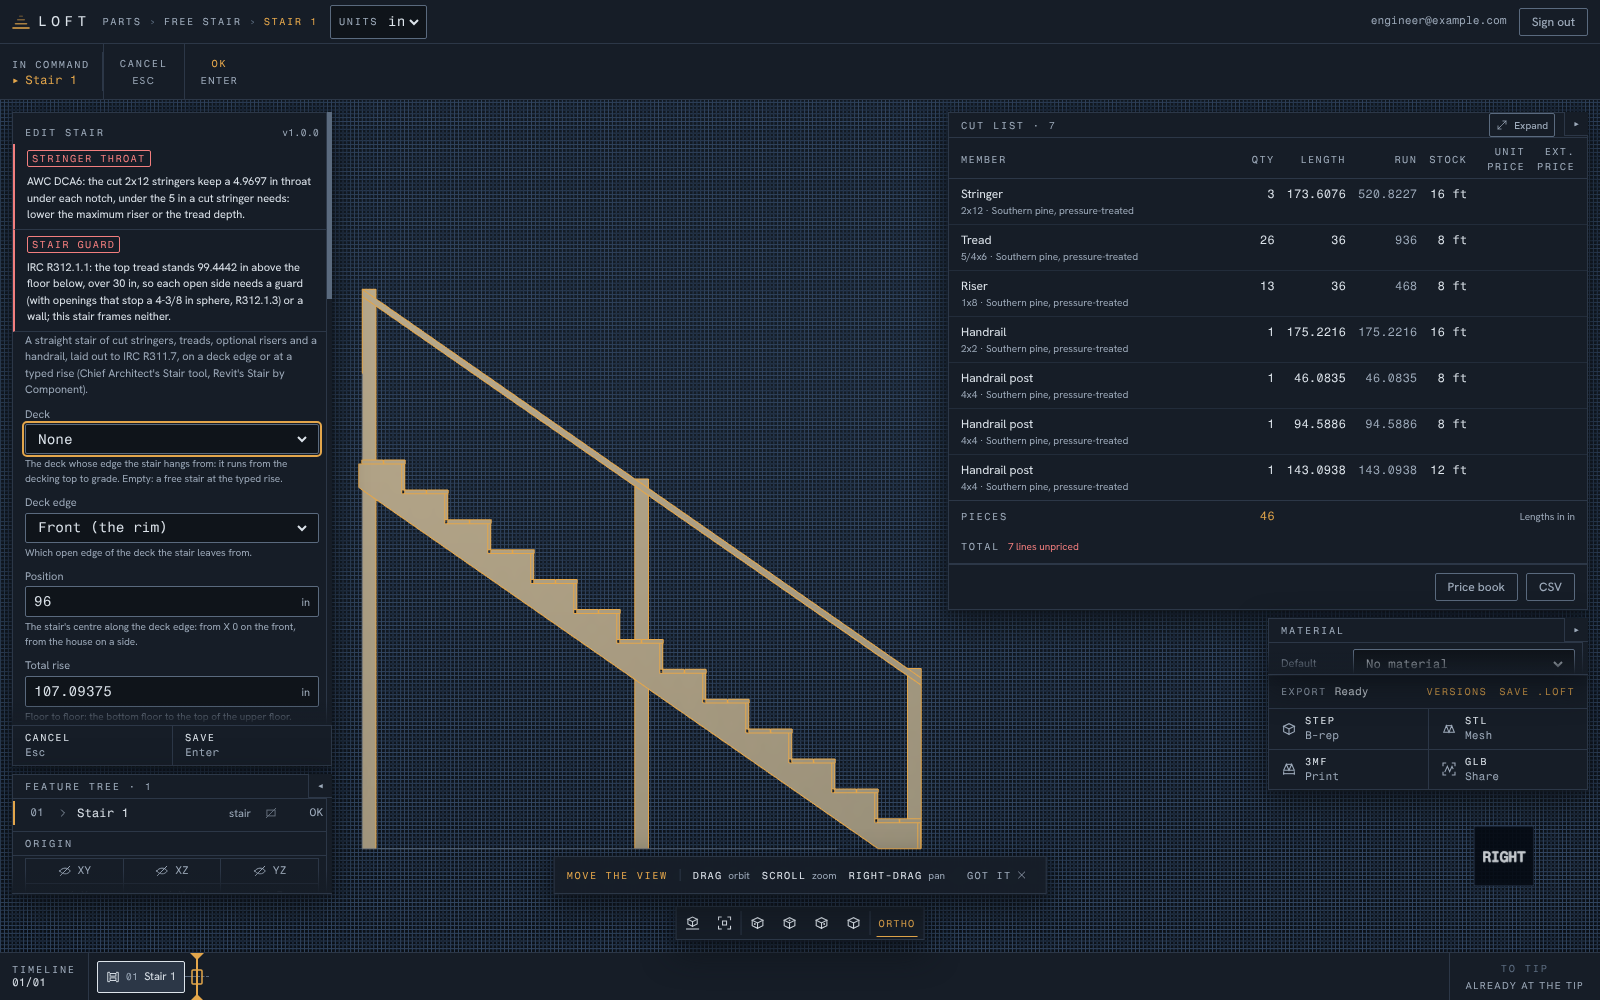
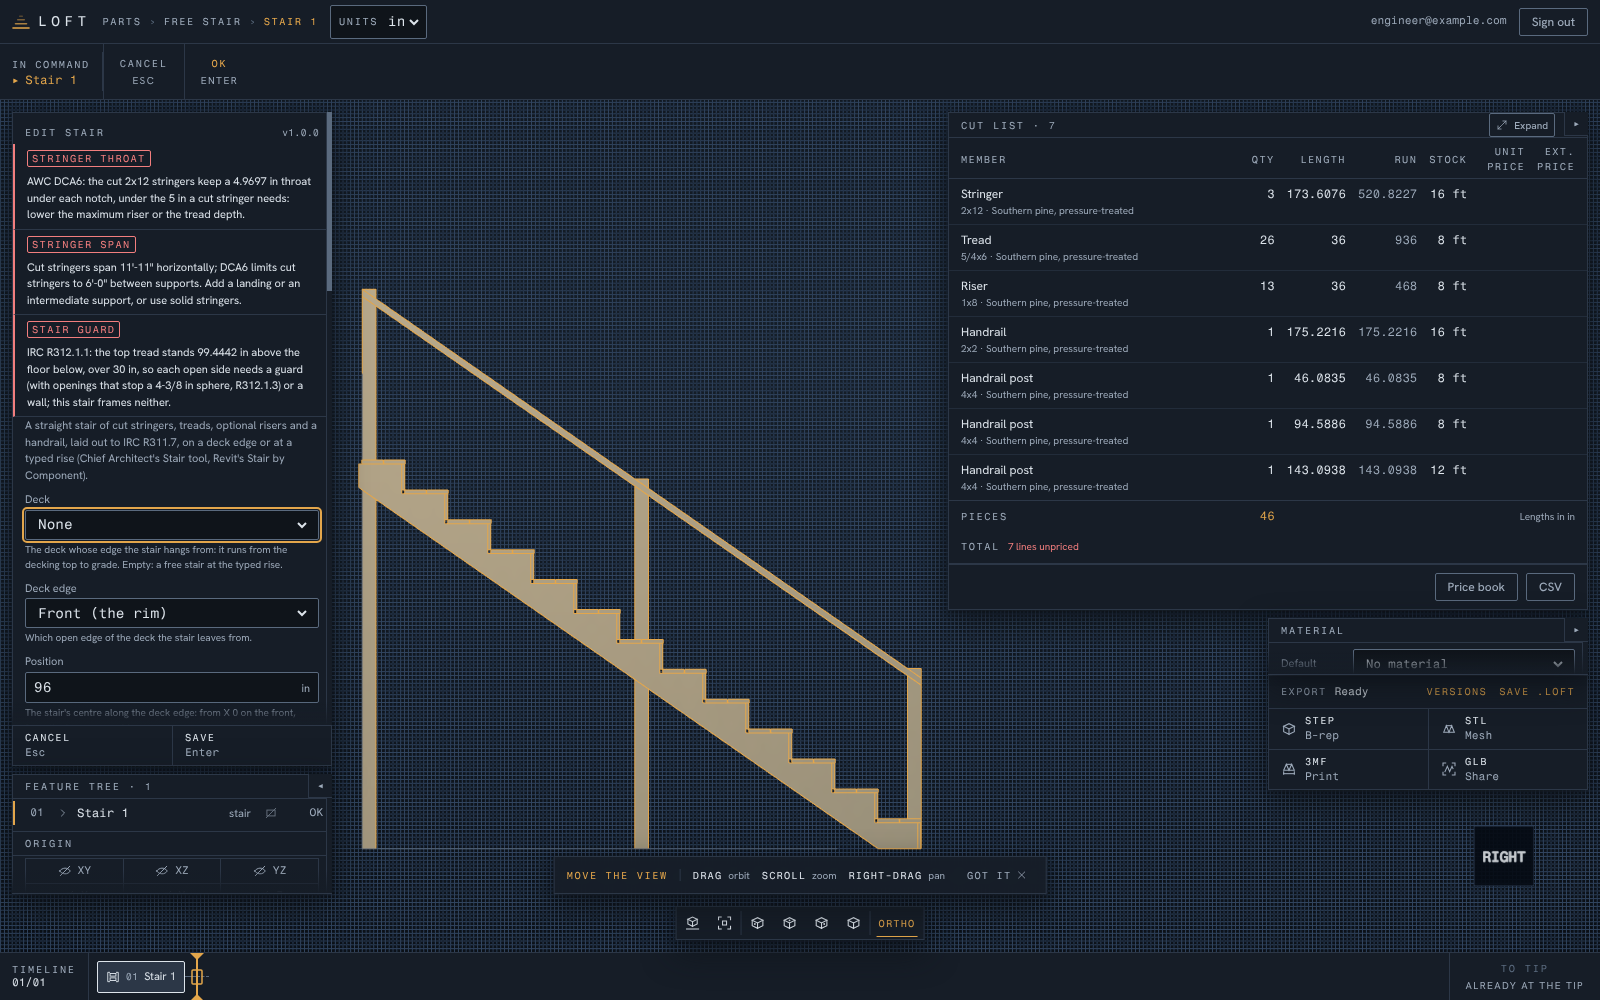
feat(plugins): warn when a stair's cut stringers span over 6'-0" (STAIRS)
stair_stringer_span: AWC DCA6 limits cut stringers to 6'-0" horizontally
between supports (DCA6's stair detail; Fine Homebuilding on the 2013
southern-pine values, down from 7 ft; InterNACHI's inspector guidance).
The span runs from the stringers' head to the bottom riser line: B1's
35 in and the 36 in deck's 46 in pass; the free 107 in stair's 143 in
(11'-11") warns and asks for a landing, an intermediate support or solid
stringers. Cited in RESEARCH 23; STAIRS-STRINGER-SPAN leaves the notes.

Claude-Session: https://claude.ai/code/session_0187m1Up5oMSqhzNuRp9tgBJ

Changed region(s): [[0.0, 0.248, 0.2188, 0.713]]

diff --git a/packages/ts-client/src/gateway/schema.ts b/packages/ts-client/src/gateway/schema.ts
@@ -7578,7 +7578,7 @@ export interface components {
             plugin_update?: components["schemas"]["PluginUpdate"] | null;
             /**
              * Plugin Warnings
-             * @description Wrong geometry the feature's pinned plugin release builds (`roof_through_sheathing`), each with the release that fixes it, or a warning on its inputs (`crawl_height_low`, `ceiling_joists_omitted`, `stair_throat_thin`, `stair_guard_required`, `stair_deck_guard`). Omitted when there are none.
+             * @description Wrong geometry the feature's pinned plugin release builds (`roof_through_sheathing`), each with the release that fixes it, or a warning on its inputs (`crawl_height_low`, `ceiling_joists_omitted`, `stair_throat_thin`, `stair_stringer_span`, `stair_guard_required`, `stair_deck_guard`). Omitted when there are none.
              */
             plugin_warnings?: components["schemas"]["PluginWarning"][] | null;
             /**
@@ -11739,10 +11739,10 @@ export interface components {
         PluginWarning: {
             /**
              * Code
-             * @description 'roof_through_sheathing': the roof's tails pass through wall sheathing, so the two share volume; 'crawl_height_low': a foundation's crawl height is under the 18 in of IRC R317.1; 'ceiling_joists_omitted': a gable's chosen ceiling joist would pass its ridge board, so the roof is built without them; 'stair_throat_thin': a stair's cut stringers keep under AWC DCA6's 5 in throat; 'stair_guard_required': a stair's top tread is over 30 in up and its open sides have no guard (IRC R312.1.1); 'stair_deck_guard': the deck's guard runs across the stair's head
+             * @description 'roof_through_sheathing': the roof's tails pass through wall sheathing, so the two share volume; 'crawl_height_low': a foundation's crawl height is under the 18 in of IRC R317.1; 'ceiling_joists_omitted': a gable's chosen ceiling joist would pass its ridge board, so the roof is built without them; 'stair_throat_thin': a stair's cut stringers keep under AWC DCA6's 5 in throat; 'stair_stringer_span': a stair's cut stringers span more than DCA6's 6'-0" horizontally between supports; 'stair_guard_required': a stair's top tread is over 30 in up and its open sides have no guard (IRC R312.1.1); 'stair_deck_guard': the deck's guard runs across the stair's head
              * @enum {string}
              */
-            code: "roof_through_sheathing" | "crawl_height_low" | "ceiling_joists_omitted" | "stair_throat_thin" | "stair_guard_required" | "stair_deck_guard";
+            code: "roof_through_sheathing" | "crawl_height_low" | "ceiling_joists_omitted" | "stair_throat_thin" | "stair_stringer_span" | "stair_guard_required" | "stair_deck_guard";
             /**
              * Message
              * @description Names the problem and what fixes it

diff --git a/packages/ts-client/src/documents/schema.ts b/packages/ts-client/src/documents/schema.ts
@@ -5026,7 +5026,7 @@ export interface components {
             plugin_update?: components["schemas"]["PluginUpdate"] | null;
             /**
              * Plugin Warnings
-             * @description Wrong geometry the feature's pinned plugin release builds (`roof_through_sheathing`), each with the release that fixes it, or a warning on its inputs (`crawl_height_low`, `ceiling_joists_omitted`, `stair_throat_thin`, `stair_guard_required`, `stair_deck_guard`). Omitted when there are none.
+             * @description Wrong geometry the feature's pinned plugin release builds (`roof_through_sheathing`), each with the release that fixes it, or a warning on its inputs (`crawl_height_low`, `ceiling_joists_omitted`, `stair_throat_thin`, `stair_stringer_span`, `stair_guard_required`, `stair_deck_guard`). Omitted when there are none.
              */
             plugin_warnings?: components["schemas"]["PluginWarning"][] | null;
             /**
@@ -8711,10 +8711,10 @@ export interface components {
         PluginWarning: {
             /**
              * Code
-             * @description 'roof_through_sheathing': the roof's tails pass through wall sheathing, so the two share volume; 'crawl_height_low': a foundation's crawl height is under the 18 in of IRC R317.1; 'ceiling_joists_omitted': a gable's chosen ceiling joist would pass its ridge board, so the roof is built without them; 'stair_throat_thin': a stair's cut stringers keep under AWC DCA6's 5 in throat; 'stair_guard_required': a stair's top tread is over 30 in up and its open sides have no guard (IRC R312.1.1); 'stair_deck_guard': the deck's guard runs across the stair's head
+             * @description 'roof_through_sheathing': the roof's tails pass through wall sheathing, so the two share volume; 'crawl_height_low': a foundation's crawl height is under the 18 in of IRC R317.1; 'ceiling_joists_omitted': a gable's chosen ceiling joist would pass its ridge board, so the roof is built without them; 'stair_throat_thin': a stair's cut stringers keep under AWC DCA6's 5 in throat; 'stair_stringer_span': a stair's cut stringers span more than DCA6's 6'-0" horizontally between supports; 'stair_guard_required': a stair's top tread is over 30 in up and its open sides have no guard (IRC R312.1.1); 'stair_deck_guard': the deck's guard runs across the stair's head
              * @enum {string}
              */
-            code: "roof_through_sheathing" | "crawl_height_low" | "ceiling_joists_omitted" | "stair_throat_thin" | "stair_guard_required" | "stair_deck_guard";
+            code: "roof_through_sheathing" | "crawl_height_low" | "ceiling_joists_omitted" | "stair_throat_thin" | "stair_stringer_span" | "stair_guard_required" | "stair_deck_guard";
             /**
              * Message
              * @description Names the problem and what fixes it

diff --git a/apps/web/e2e/stairs.spec.ts b/apps/web/e2e/stairs.spec.ts
@@ -201,10 +201,12 @@ test.describe("Stairs — B1's stair and a free stair", () => {
     });
     await page.getByTestId("feature-select-0").click();
     const warnings = page.getByTestId("plugin-warning");
-    await expect(warnings).toHaveCount(2);
+    await expect(warnings).toHaveCount(3);
     await expect(warnings.nth(0)).toContainText("Stringer throat");
     await expect(warnings.nth(0)).toContainText("4.9697 in");
-    await expect(warnings.nth(1)).toContainText("R312.1.1");
+    await expect(warnings.nth(1)).toContainText("Stringer span");
+    await expect(warnings.nth(1)).toContainText(`11'-11"`);
+    await expect(warnings.nth(2)).toContainText("R312.1.1");
     await page.mouse.move(800, 990);
     await page.screenshot({
       path: `${SCREENSHOT_DIR}/stairs-free-warning.png`,

diff --git a/apps/web/src/components/PluginFeatureEditor.tsx b/apps/web/src/components/PluginFeatureEditor.tsx
@@ -134,6 +134,7 @@ const WARNING_LABELS: Record<string, string> = {
   crawl_height_low: "Crawl height",
   ceiling_joists_omitted: "Ceiling joists",
   stair_throat_thin: "Stringer throat",
+  stair_stringer_span: "Stringer span",
   stair_guard_required: "Stair guard",
   stair_deck_guard: "Deck guard",
 };

diff --git a/packages/loft-wire/src/loft_wire/plugin_warning.py b/packages/loft-wire/src/loft_wire/plugin_warning.py
@@ -21,7 +21,9 @@ pass the ridge board's underside): the roof builds without them, as Chief
 warns rather than blocks, and the message says what to pick.
 
 ``loft.stair`` (STAIRS) carries advice on a layout that builds: a cut
-stringer's throat under AWC DCA6's 5 in (``stair_throat_thin``), open sides
+stringer's throat under AWC DCA6's 5 in (``stair_throat_thin``), a cut
+stringer spanning more than DCA6's 6'-0" horizontally between supports
+(``stair_stringer_span``), open sides
 more than 30 in up that IRC R312.1.1 guards (``stair_guard_required``), and
 a deck whose guard crosses the stair's head (``stair_deck_guard``: the
 stair never changes the deck). A layout that breaks IRC R311.7 is refused
@@ -45,6 +47,8 @@ CRAWL_HEIGHT_LOW: Final = "crawl_height_low"
 CEILING_JOISTS_OMITTED: Final = "ceiling_joists_omitted"
 #: STAIRS: a ``loft.stair``'s cut stringers keep under 5 in of throat (DCA6).
 STAIR_THROAT_THIN: Final = "stair_throat_thin"
+#: STAIRS: a stair's cut stringers span over DCA6's 6'-0" between supports.
+STAIR_STRINGER_SPAN: Final = "stair_stringer_span"
 #: STAIRS: a stair's top tread over 30 in up, its open sides unguarded.
 STAIR_GUARD_REQUIRED: Final = "stair_guard_required"
 #: STAIRS: the picked deck's guard runs across the stair's head.
@@ -59,6 +63,7 @@ class PluginWarning(BaseModel):
         "crawl_height_low",
         "ceiling_joists_omitted",
         "stair_throat_thin",
+        "stair_stringer_span",
         "stair_guard_required",
         "stair_deck_guard",
     ] = Field(
@@ -68,7 +73,9 @@ class PluginWarning(BaseModel):
         "'ceiling_joists_omitted': a gable's chosen ceiling joist would pass "
         "its ridge board, so the roof is built without them; "
         "'stair_throat_thin': a stair's cut stringers keep under AWC DCA6's "
-        "5 in throat; 'stair_guard_required': a stair's top tread is over "
+        "5 in throat; 'stair_stringer_span': a stair's cut stringers span "
+        "more than DCA6's 6'-0\" horizontally between supports; "
+        "'stair_guard_required': a stair's top tread is over "
         "30 in up and its open sides have no guard (IRC R312.1.1); "
         "'stair_deck_guard': the deck's guard runs across the stair's head"
     )
@@ -100,7 +107,8 @@ PLUGIN_WARNINGS_FIELD: Any = Field(
     description="Wrong geometry the feature's pinned plugin release builds "
     "(`roof_through_sheathing`), each with the release that fixes it, or a "
     "warning on its inputs (`crawl_height_low`, `ceiling_joists_omitted`, "
-    "`stair_throat_thin`, `stair_guard_required`, `stair_deck_guard`). "
+    "`stair_throat_thin`, `stair_stringer_span`, `stair_guard_required`, "
+    "`stair_deck_guard`). "
     "Omitted when there are none.",
 )
 
@@ -112,6 +120,7 @@ __all__ = [
     "ROOF_THROUGH_SHEATHING",
     "STAIR_DECK_GUARD",
     "STAIR_GUARD_REQUIRED",
+    "STAIR_STRINGER_SPAN",
     "STAIR_THROAT_THIN",
     "PluginWarning",
     "PluginWarnings",

diff --git a/packages/loft-plugins/src/loft_plugins/builtin/stair.py b/packages/loft-plugins/src/loft_plugins/builtin/stair.py
@@ -96,6 +96,7 @@ from loft_wire.materials import MaterialKey
 from loft_wire.plugin_warning import (
     STAIR_DECK_GUARD,
     STAIR_GUARD_REQUIRED,
+    STAIR_STRINGER_SPAN,
     STAIR_THROAT_THIN,
 )
 from loft_wire.plugins import (
@@ -134,6 +135,9 @@ OPEN_RISER_SPHERE: Final = 4.0  # R311.7.5.1: open risers above 30 in
 GUARD_HEIGHT_ABOVE: Final = 30.0  # R312.1.1 and R311.7.5.1's 30 in
 MAX_STRINGER_SPACING: Final = 18.0  # DCA6: cut stringers at most 18 in o.c.
 MIN_THROAT: Final = 5.0  # DCA6: 5 in of stringer under each notch
+#: DCA6's stair detail: cut stringers span at most 6'-0" horizontally
+#: between supports (the 2013 southern-pine values took it from 7 ft).
+MAX_CUT_STRINGER_SPAN: Final = 72.0
 HANDRAIL_POST_SPACING: Final = 72.0  # the deck guard's 6 ft post rule
 
 _INCH_DIGITS = 9
@@ -1137,6 +1141,17 @@ def expand(inputs: ExpandInputs) -> Iterator[Member]:
             )
 
 
+def _feet_inches(inches: float) -> str:
+    """*inches* as feet and inches to the nearest 1/16 (``11'-11"``)."""
+    sixteenths = round(inches * 16)
+    feet, rest = divmod(sixteenths, 12 * 16)
+    whole, frac = divmod(rest, 16)
+    if frac == 0:
+        return f"{feet}'-{whole}\""
+    g = math.gcd(frac, 16)
+    return f"{feet}'-{whole} {frac // g}/{16 // g}\""
+
+
 def stair_notes(inputs: ExpandInputs) -> list[tuple[str, str]]:
     """The stored stair's warnings, as (code, message): advice on a layout
     that builds (module docstring), none for one that is refused. Pure."""
@@ -1157,6 +1172,16 @@ def stair_notes(inputs: ExpandInputs) -> list[tuple[str, str]]:
                     if lay.stringer.key != "us_2x12"
                     else "lower the maximum riser or the tread depth."
                 ),
+            )
+        )
+    span = lay.foot_u - lay.head_u
+    if span > MAX_CUT_STRINGER_SPAN + _EPS:
+        notes.append(
+            (
+                STAIR_STRINGER_SPAN,
+                f"Cut stringers span {_feet_inches(span)} horizontally; DCA6 "
+                "limits cut stringers to 6'-0\" between supports. Add a "
+                "landing or an intermediate support, or use solid stringers.",
             )
         )
     top_tread = (lay.risers - 1) * lay.riser

diff --git a/packages/loft-plugins/tests/test_stair.py b/packages/loft-plugins/tests/test_stair.py
@@ -519,11 +519,34 @@ def test_b1_builds_without_a_warning() -> None:
     assert notes({"deck": DECK_REF}, {"height_mm": 36 * IN}) == []
 
 
-def test_the_free_stair_warns_of_its_throat_and_guard() -> None:
+def test_the_free_stair_warns_of_its_throat_span_and_guard() -> None:
     assert notes(GOLDEN_INPUTS["free-stair-107"][1]) == [
         "stair_throat_thin",
+        "stair_stringer_span",
         "stair_guard_required",
     ]
+
+
+def test_a_cut_stringer_over_6_ft_warns_by_its_span() -> None:
+    """DCA6: cut stringers span at most 6'-0" between supports. The free
+    stair's stringers run from the header's face (u -0.875) to the bottom
+    riser (u 142.125): 143 in, 11'-11". B1's run from the rim's face
+    (u -2.125) to u 32.875, 35 in, and its 36 in edit 46 in, do not warn."""
+    inputs = canonical_inputs(STAIR.manifest, GOLDEN_INPUTS["free-stair-107"][1])
+    found = dict(stair_notes(ExpandInputs(STAIR_ID, {"deck": None, **inputs}, {})))
+    assert found["stair_stringer_span"] == (
+        "Cut stringers span 11'-11\" horizontally; DCA6 limits cut stringers "
+        "to 6'-0\" between supports. Add a landing or an intermediate "
+        "support, or use solid stringers."
+    )
+    # A free stair spans its treads' run: 9 risers of 7.5 (67.5 in) give 8
+    # treads, 88 in (warns); 7 risers (52.5 in) give 6, 66 in (does not).
+    assert "stair_stringer_span" in notes({"rise_mm": 67.5 * IN, "risers": "closed"})
+    assert "stair_stringer_span" not in notes(
+        {"rise_mm": 52.5 * IN, "risers": "closed"}
+    )
+    for deck in ({}, {"height_mm": 36 * IN}):
+        assert "stair_stringer_span" not in notes({"deck": DECK_REF}, deck)
 
 
 def test_a_guarded_deck_warns_that_its_guard_crosses_the_stair() -> None:

diff --git a/services/documents/tests/test_stair_feature.py b/services/documents/tests/test_stair_feature.py
@@ -115,10 +115,12 @@ def test_a_free_stair_warns_of_its_throat_and_open_sides(client: TestClient) -> 
     warnings = _rows(client, part)["Stair"]["plugin_warnings"]
     assert [w["code"] for w in warnings] == [
         "stair_throat_thin",
+        "stair_stringer_span",
         "stair_guard_required",
     ]
     assert "4.9697 in" in warnings[0]["message"]
-    assert "R312.1.1" in warnings[1]["message"]
+    assert "6'-0\"" in warnings[1]["message"]
+    assert "R312.1.1" in warnings[2]["message"]
     assert all(w["update_to"] is None for w in warnings)
     assert _roles(_cut_list_request(client, part))["riser"] == 13
 

diff --git a/docs/RESEARCH.md b/docs/RESEARCH.md
@@ -3272,7 +3272,18 @@ and reframe it, a material per member, and a cut list that is always current.
     (R311.7.8), a handrail outside 34..38 (R311.7.8.1), headroom under 6 ft
     8 in below a typed stairwell opening (R311.7.2). Advice comes back as
     the stored stair's warnings: a throat under DCA6's 5 in
-    (`stair_throat_thin`), open sides over 30 in up with no guard, whose
+    (`stair_throat_thin`), cut stringers spanning over 6'-0" horizontally
+    between supports (`stair_stringer_span`: the head's plumb cut to the
+    bottom riser line, so B1's 35 in and the 36 in deck's 46 in pass and
+    the free 107 in stair's 143 in, 11'-11", warns; the fix is a landing,
+    an intermediate support or solid stringers). The 6 ft limit is AWC
+    DCA6's stair detail (three cut stringers at most 18 in apart, spanning
+    at most 6'-0" between supports), Fine Homebuilding on the 2013
+    southern-pine design values ("stringers cut from 2x12 southern pine can
+    now only span a maximum of 6 ft, down from 7 ft") and InterNACHI's
+    inspector guidance (cut stringers <= 6'-0", 1 829 mm); the coordinator
+    confirmed it from those, as awc.org is refused from this sandbox. Open
+    sides over 30 in up with no guard, whose
     openings would stop a 4-3/8 in sphere (R312.1.1, R312.1.3:
     `stair_guard_required`), and a deck guard across its head
     (`stair_deck_guard`: the guard opening is a later deck release). The

diff --git a/docs/BACKLOG.md b/docs/BACKLOG.md
@@ -289,7 +289,6 @@ One line each. The founder triages weekly; most are closed without work.
 - DECK-GUARD-OPENING: deck 1.3.0 opens its guard at a stair (coordinator's call: a new deck version is allowed, only released ones are frozen); until then the stair warns `stair_deck_guard`. Queued for the next pass.
 - STAIRS-HEADROOM-DEFAULT: headroom (IRC R311.7.2) is checked only when a stairwell opening is typed; a free stair's default (0) reads as open above.
 - STAIRS-RISER-VOID: closed risers start on top of the tread below, leaving a 0.75 x 1 in void behind each tread's back edge, over the seat, under the riser board.
-- STAIRS-STRINGER-SPAN: a warning on a cut stringer's horizontal span between supports (DCA6, believed 6 ft, so the free 107 in stair's 142 in run would warn) is NOT built: awc.org is refused by this sandbox's egress proxy, so the limit could not be confirmed from the DCA6 text.
 - STAIRS-LANDING: a deck stair's stringers bear on grade with no landing pad or footing (DCA6 asks for one), and its handrail posts stand on grade unanchored.
 - STAIRS-INTERIOR-RAIL: a free stair's handrail stands on posts (the top one as tall as the rise + 36 in); an interior stair beside a wall would take wall brackets.
 - STAIRS-GUARD: open sides over 30 in up only warn (`stair_guard_required`); the stair frames no guard of its own.
